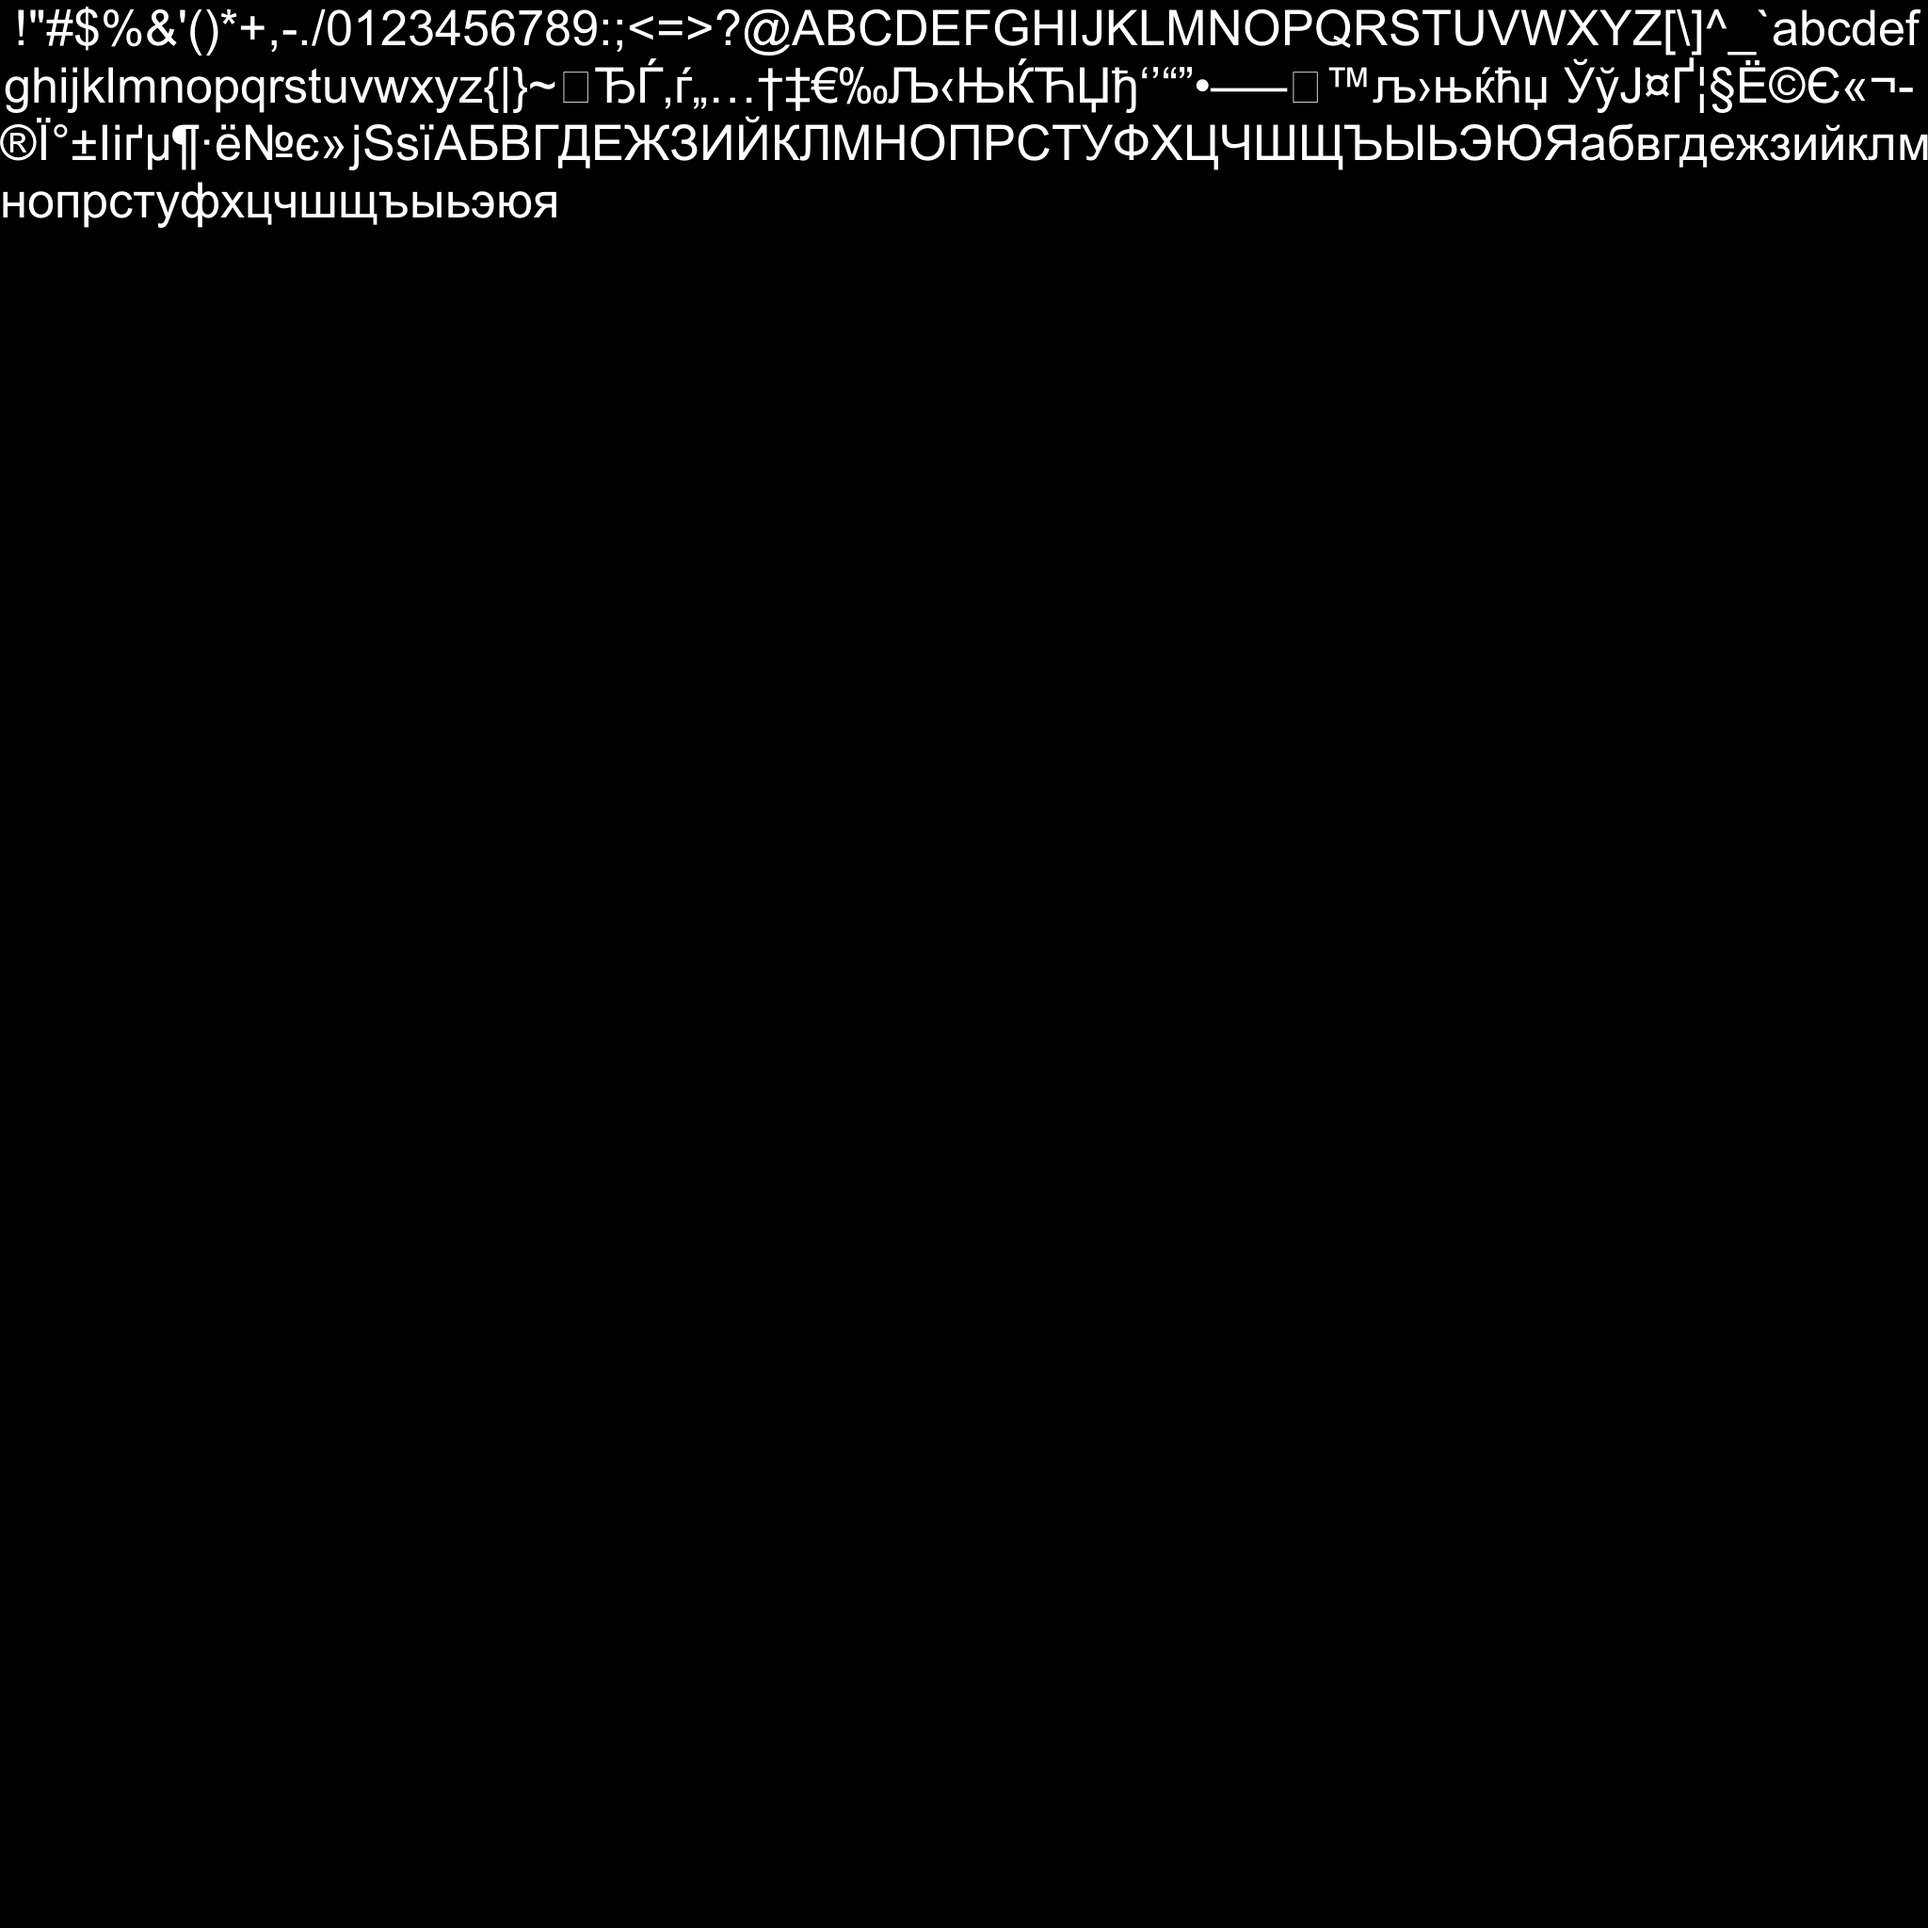
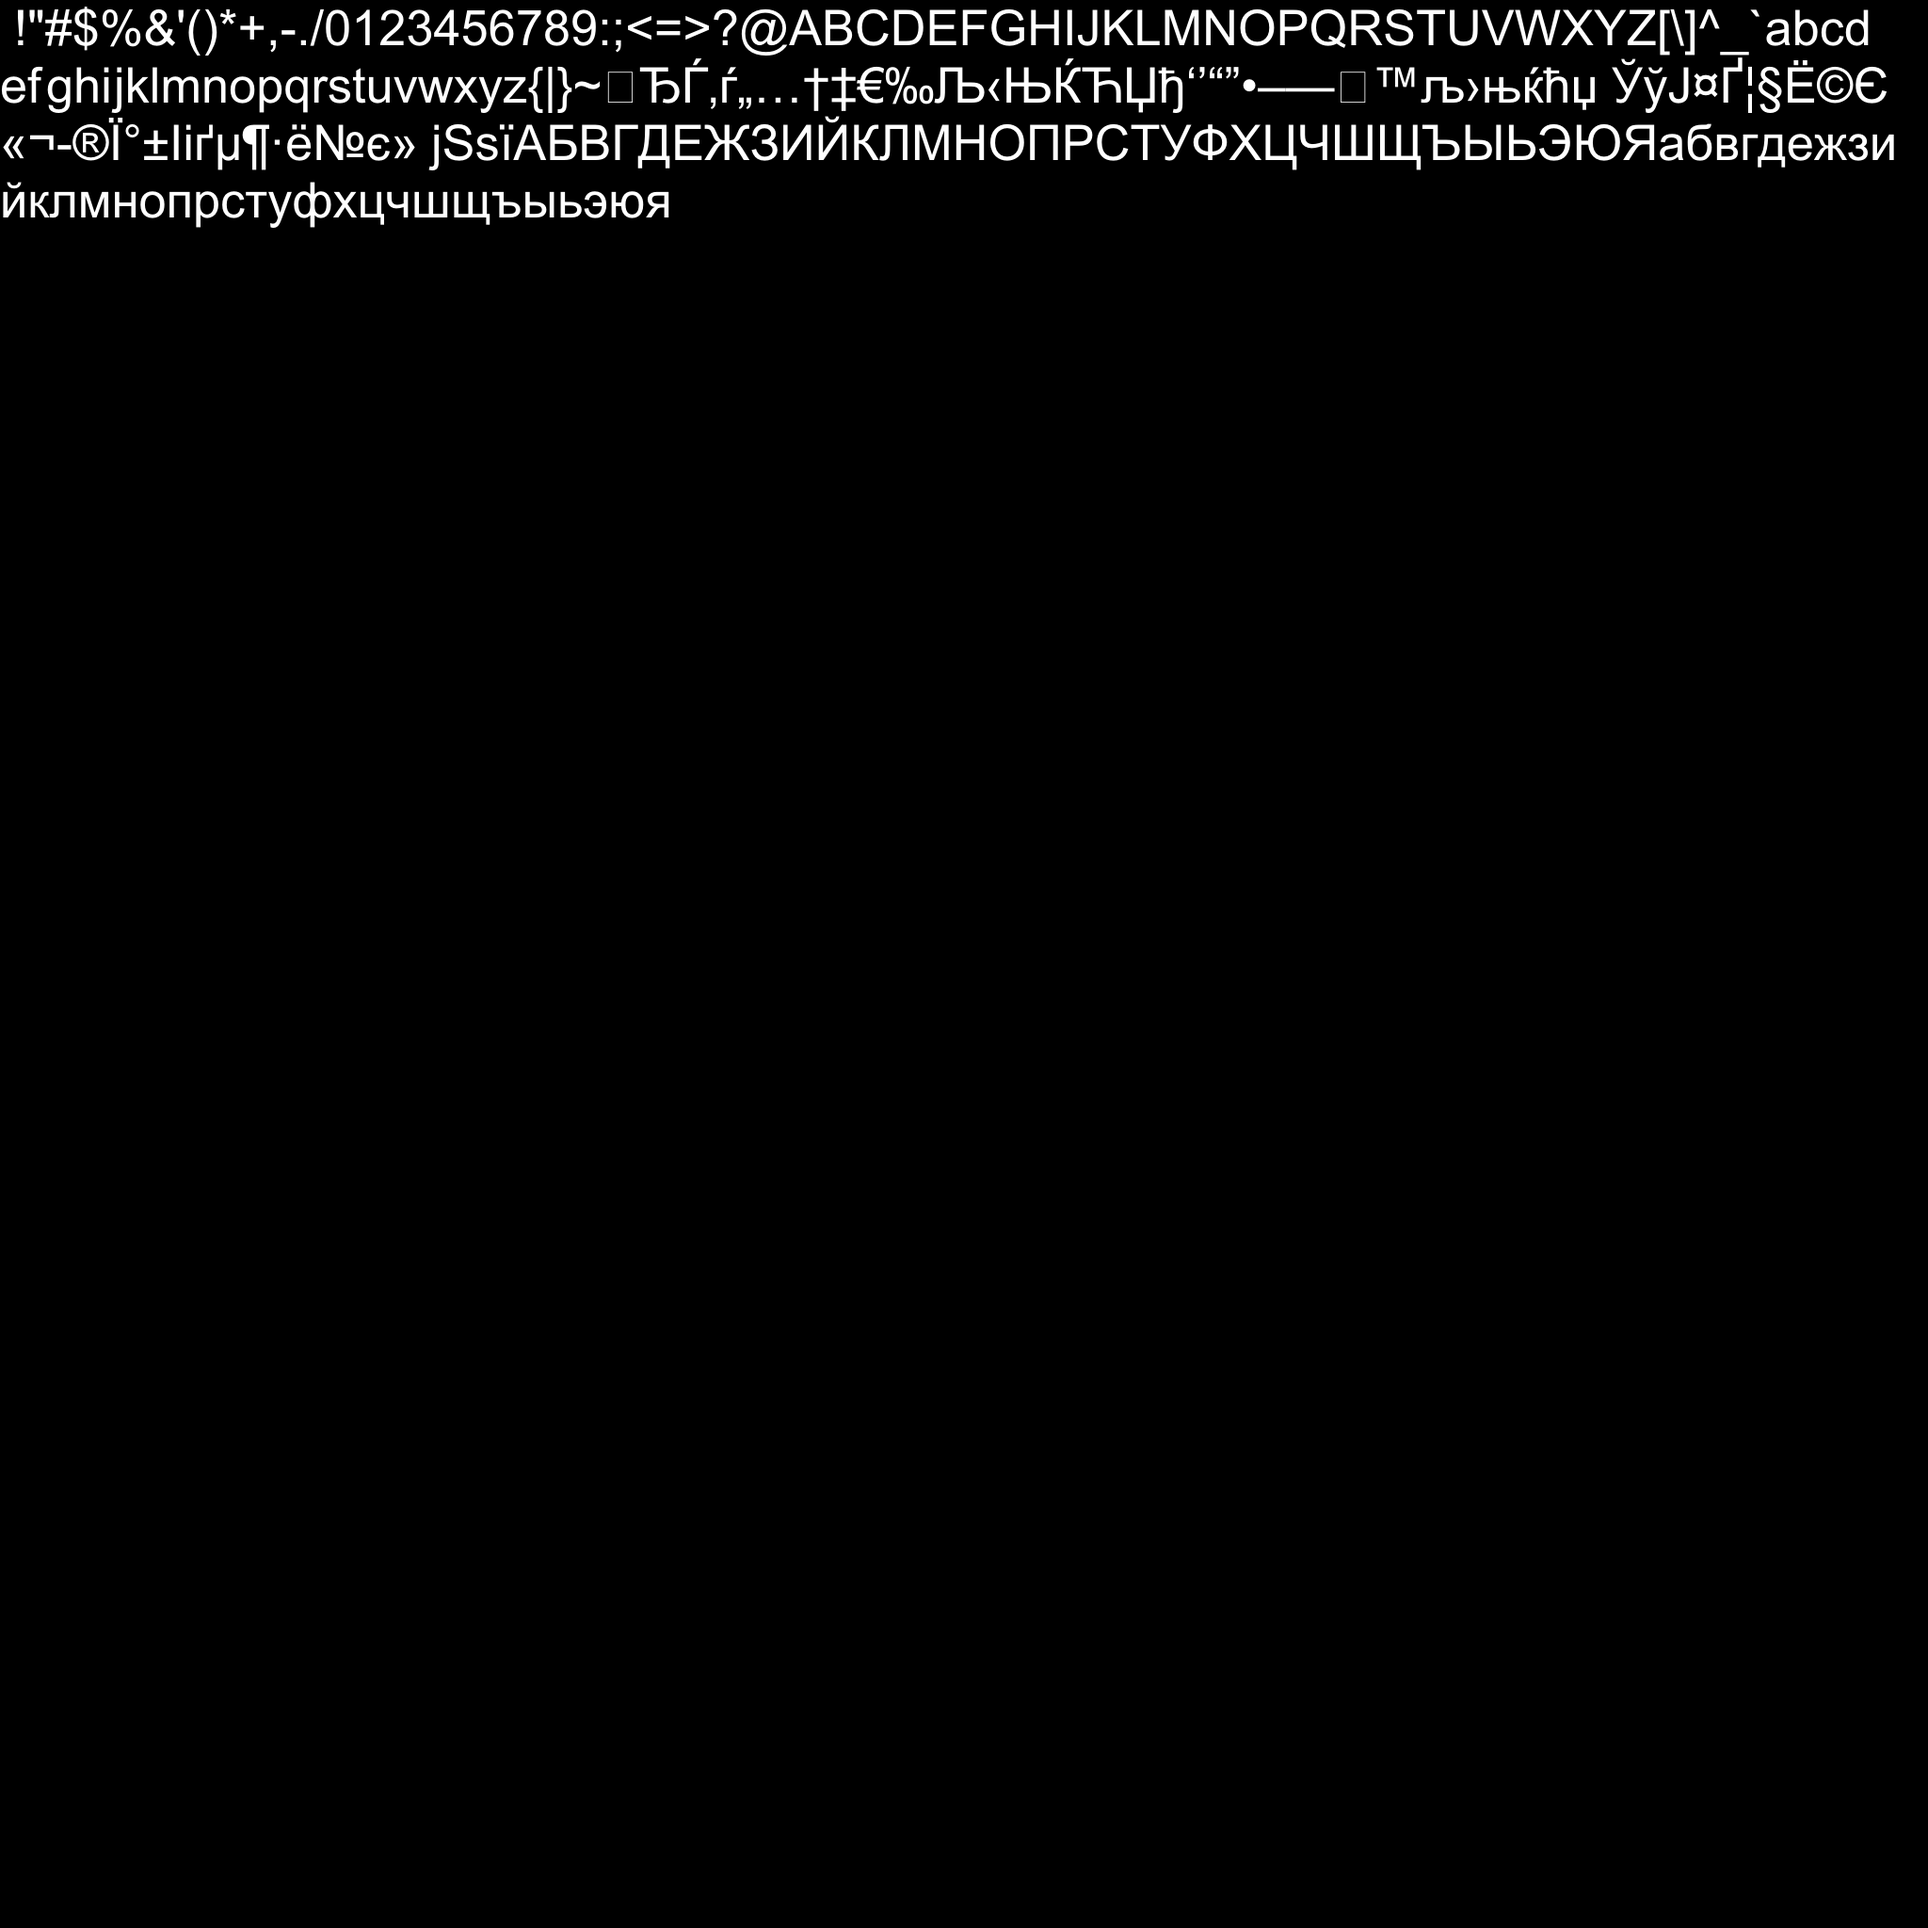
remove char outlining

Changed region(s): [[0.0, 0.0, 1.0, 0.125]]

diff --git a/pkg/gogl/texture.go b/pkg/gogl/texture.go
@@ -98,16 +98,23 @@ func UploadRGBATextureFromMemory(data image.Image) *Texture {
 		for x := 0; x < w; x++ {
 			//r, _, _, _ := data.At(x, y).RGBA()
 			r, g, b, a := data.At(x, y).RGBA()
-			pixels[bIndex] = byte(r)
+			rb := byte(r)
+			gb := byte(g)
+			bb := byte(b)
+			ab := byte(a)
+			pixels[bIndex] = rb
 			bIndex++
-			pixels[bIndex] = byte(g)
+			pixels[bIndex] = gb
 			bIndex++
-			pixels[bIndex] = byte(b)
+			pixels[bIndex] = bb
 			bIndex++
-			if r == 0 && g == 0 && b == 0 {
+			if rb == 0 && gb == 0 && bb == 0 {
+				pixels[bIndex] = byte(0)
+			} else if rb <= 150 && gb <= 150 && bb <= 150 { // removes char outlining
 				pixels[bIndex] = byte(0)
 			} else {
-				pixels[bIndex] = byte(a)
+				//fmt.Println(r, g, b)
+				pixels[bIndex] = ab
 			}
 			bIndex++
 		}

diff --git a/pkg/fonts/fonts.go b/pkg/fonts/fonts.go
@@ -135,7 +135,7 @@ func (f *Font) generateAndUploadBitmap() {
 		face, err = opentype.NewFace(parsed, &opentype.FaceOptions{
 			Size:    float64(f.FontSize),
 			DPI:     DPI,
-			Hinting: font.HintingFull,
+			Hinting: font.HintingNone,
 		})
 
 		if err != nil {
@@ -248,9 +248,9 @@ func (f *Font) generateAndUploadBitmap() {
 	encoder := png.Encoder{
 		CompressionLevel: png.BestCompression,
 	}
+	t2 := gogl.UploadRGBATextureFromMemory(dst3)
 	encoder.Encode(pngFile, dst3)
 	// if opengl {
-	t2 := gogl.UploadRGBATextureFromMemory(dst3)
 	f.TextureId = t2.GetId()
 	f.Texture = t2
 	// }

diff --git a/test/ui/main.go b/test/ui/main.go
@@ -76,7 +76,7 @@ func main() {
 	gl.Enable(gl.BLEND)
 	gl.BlendFunc(gl.SRC_ALPHA, gl.ONE_MINUS_SRC_ALPHA)
 
-	//ui.UiCtx.UploadFont("C:/Windows/Fonts/times.ttf", 16)
+	//ui.UiCtx.UploadFont("C:/Windows/Fonts/times.ttf", 70)
 	ui.UiCtx.UploadFont("C:/Windows/Fonts/arial.ttf", 24)
 	//ui.UiCtx.UploadFont("assets/fonts/rany.otf", 16)
 	//ui.UiCtx.UploadFont("assets/fonts/mono.ttf", 16)
